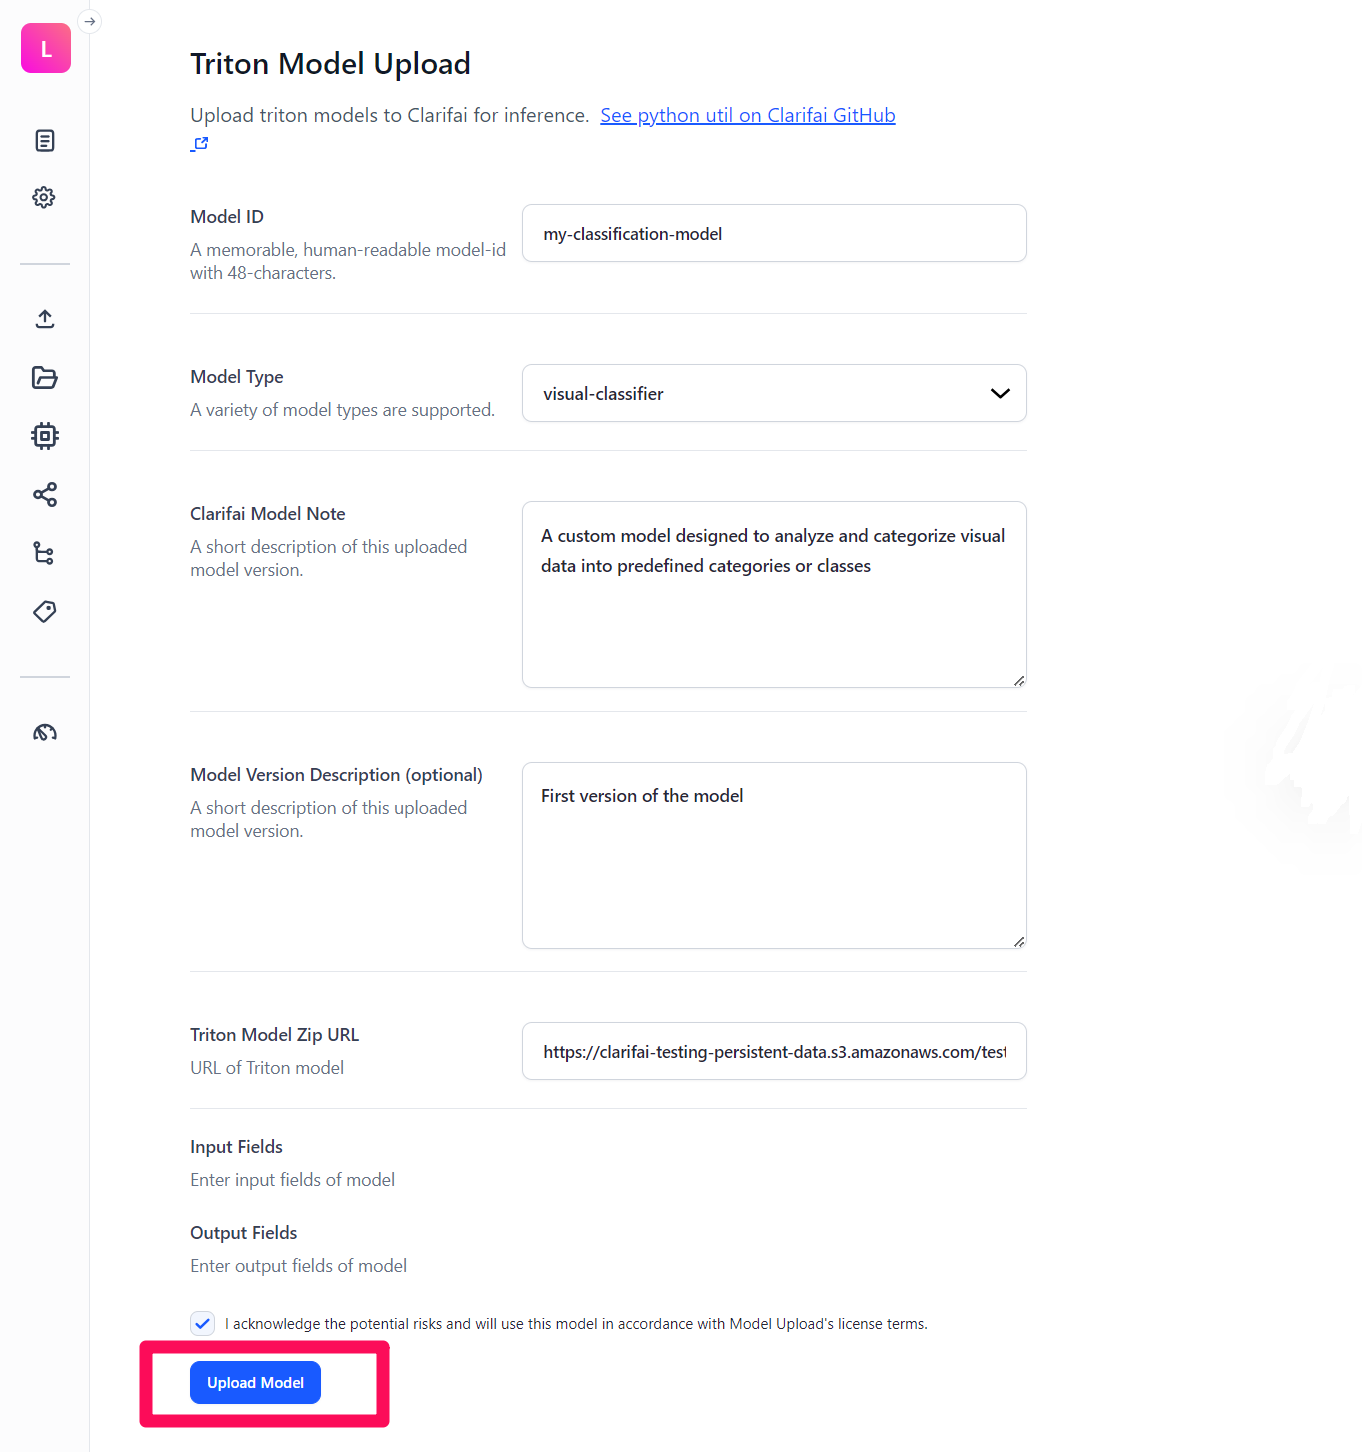
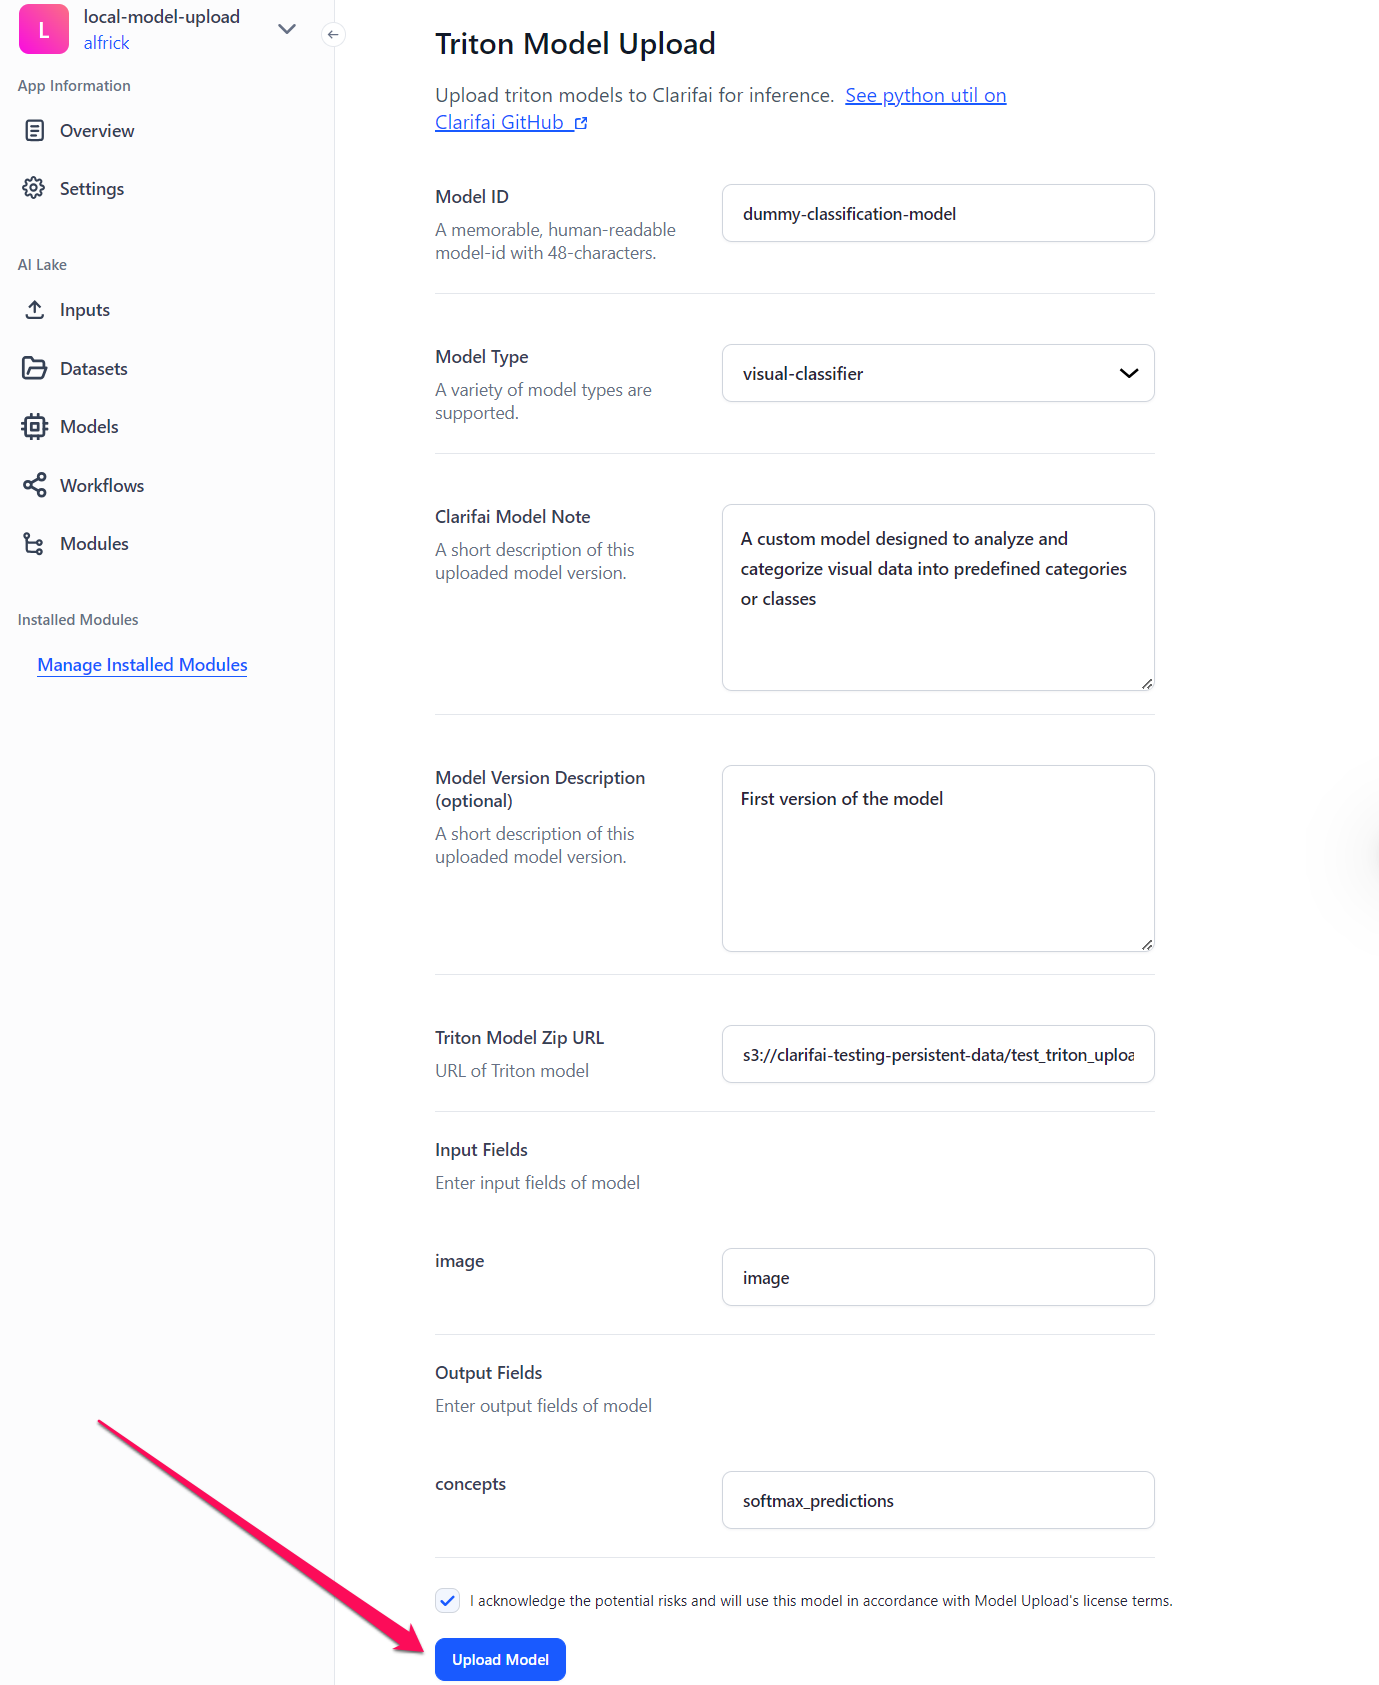
added local model upload

diff --git a/docs/portal-guide/model/local-model-upload.md b/docs/portal-guide/model/local-model-upload.md
@@ -24,17 +24,15 @@ The local model upload feature provides several benefits, including:
 - Leverage Clarifai’s robust infrastructure to expand the capabilities of your locally built models. For example, you can link an uploaded model with other models in a [workflow](https://docs.clarifai.com/portal-guide/workflows/) and unlock new possibilities. 
 - Share locally built models, enabling you to showcase your innovations and collaborate with others in the AI community. 
 
-:::note
+:::warning Ready to serve 
 
 The uploaded model will be automatically deployed and ready to be evaluated, fine-tuned and customized, combined with other models and agent operators in a workflow, or used to serve inference requests as it is.
 
 :::
 
-## How to Upload a Model
+## Build the Model
 
-### Step 1: Build the Model
-
-Begin by constructing the model you intend to deploy on the Clarifai platform, making sure to follow the guidelines of the Triton format.
+Begin by creating the model you intend to deploy on the Clarifai platform, making sure to follow the guidelines of the Triton format.
 
 Then, compress the model into a ZIP file and host it on a publicly accessible URL.
 
@@ -44,9 +42,29 @@ Then, compress the model into a ZIP file and host it on a publicly accessible UR
 
 :::
 
-### Step 2: Add the Model
+### Input and Output Fields
+
+Each model type requires different input and output fields. The table below illustrates the relationship between supported models and their corresponding input and output types.
+
+[Click here](https://github.com/Clarifai/clarifai-python/tree/cb42190df45348f188bc14147bef80801d723905/clarifai/models/model_serving/model_config/model_types_config) to learn more about the different input and output fields. 
+
+| Type                | Input       | Output               |
+|---------------------|-------------|----------------------|
+| multimodal-embedder |  image,text | embeddings      |
+| text-classifier     |  text       | softmax_predictions     |
+| text-embedder       |  text       | embeddings      |
+| text-to-image       |  text       | image          |
+| text-to-text        |  text       | text           |
+| visual-classifier   |  image      | softmax_predictions     |
+| visual-detector     |  image      | predicted_bboxes, predicted_labels, predicted_scores |
+| visual-embedder     |  image      | embeddings      |
+| visual-segmenter    |  image      | predicted_mask          |
+
+## How to Upload a Model
 
 After building the model, you can now upload it to the Clarifai platform.
+
+### Step 1: Add the Model
 
 Go to the individual page of an application you own, and select the **Models** option on the collapsible left sidebar.
 
@@ -54,13 +72,13 @@ On the models listing page, click the **Add Model** button at the upper-right co
 
 ![](/img/model-importer/local_upload-1.png)
 
-On the **Add a model** window that pops up, select the **Upload a Model** option and click the Continue button.
+On the **Add a model** window that pops up, select the **Upload a Model** option and click the **Continue** button.
 
 ![](/img/model-importer/local_upload-2.png)
 
 You'll be redirected to the **Triton Model Upload** page, where you can upload your custom-built model. 
 
-### Step 3: Fill out the Model Upload Form
+### Step 2: Fill out the Model Upload Form
 
 You can now start filling out the model upload form. 
 
@@ -74,9 +92,13 @@ Let’s talk about the fields to fill in the form.
 
 Carefully pick a memorable, human-readable ID for the model you want to upload.
 
+> _For this example, we'll specify the ID as `dummy-classification-model`._ 
+
 #### Model Type
 
 Choose a [model type](https://docs.clarifai.com/portal-guide/model/model-types/) from the available options in the drop-down list.
+
+> _For this example, we'll specify the model type as `visual-classifier`._
 
 #### Clarifai Model Notes
 
@@ -88,15 +110,21 @@ Optionally, you can provide a brief description of the model version, summarizin
 
 #### Triton Model Zip URL
 
-Enter a publicly accessible, download URL for the zipped Triton model. 
+Enter a publicly accessible and downloadable URL for the zipped Triton model. 
+
+> _For this example, we'll enter the URL as `s3://clarifai-testing-persistent-data/test_triton_upload/dummy-visual-classifier.zip`. It's a simple, dummy visual-classifier model that returns five concepts, each with an identical confidence score._
 
 #### Input Fields
 
 Provide the required input parameters for the model.
 
+> _For this example, we'll specify the input parameter as `image`_. 
+
 #### Output Fields
 
 Provide the required output parameters for the model.
+
+> _For this example, we'll specify the output parameter as `softmax_predictions`._
 
 #### Select the Checkbox
 
@@ -104,17 +132,19 @@ Select the checkbox to acknowledge uploading your custom-built model to the Clar
 
 #### Upload Model
 
-Finally, click the **Upload Model** button to complete uploading your model. 
+Finally, click the **Upload Model** button to initiate uploading your model. 
 
-### Step 4: Use the Model
+### Step 3: Use the Model
 
 You’ll be redirected to the individual page of the model.
 
-If you check the model's versions table, you’ll notice that the model is still being uploaded. It takes a few minutes for the model to be uploaded—large models can take longer.
+If you check the model's versions table, you’ll notice that the model is still being uploaded. It takes a few minutes for the model to be uploaded — large models could take longer.
 
 ![](/img/model-importer/local_upload-4.png)
 
-After the model has been uploaded, the status will change to `Model is trained and ready.`
+After the model has been uploaded, the status will change to `Model Trained.`
+
+![](/img/model-importer/local_upload-5.png)
 
 You can now click the **Use Model** button at the upper-right corner of the page to start using the model.
 
